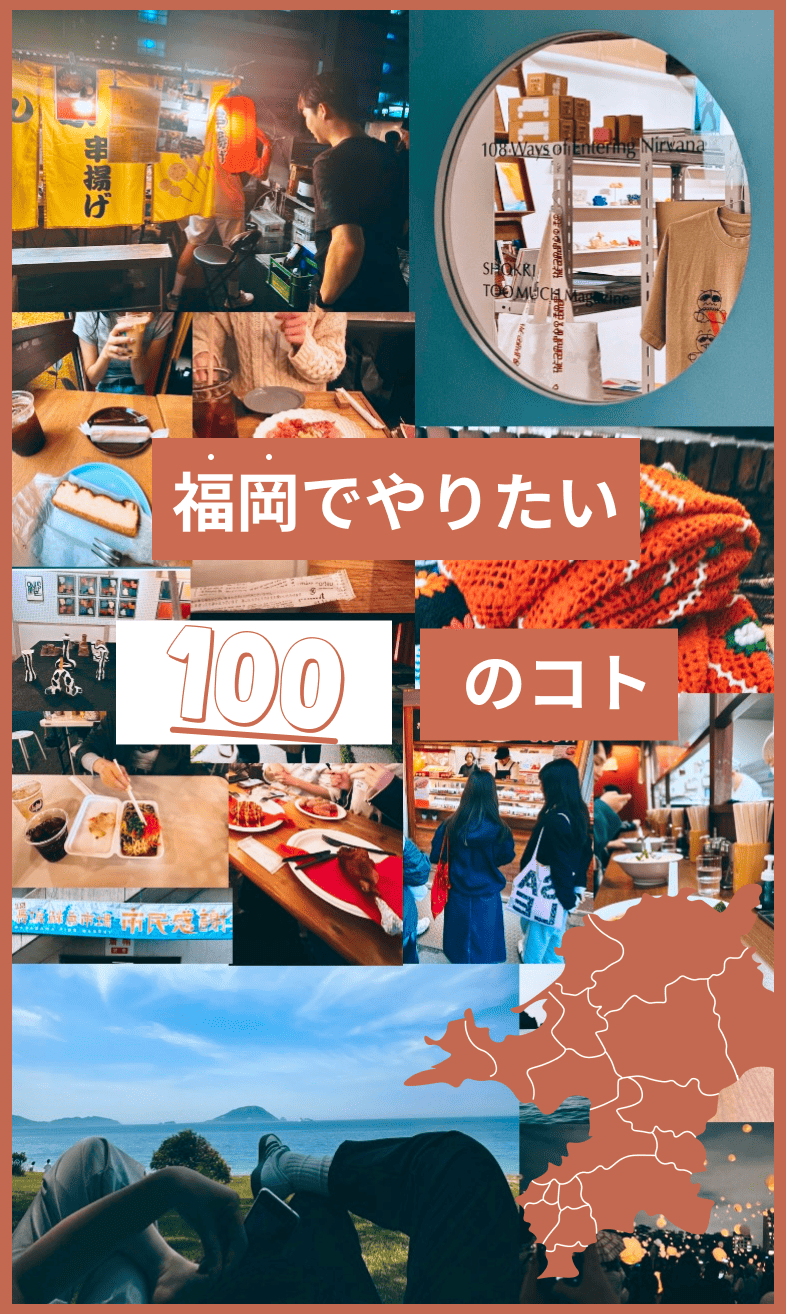
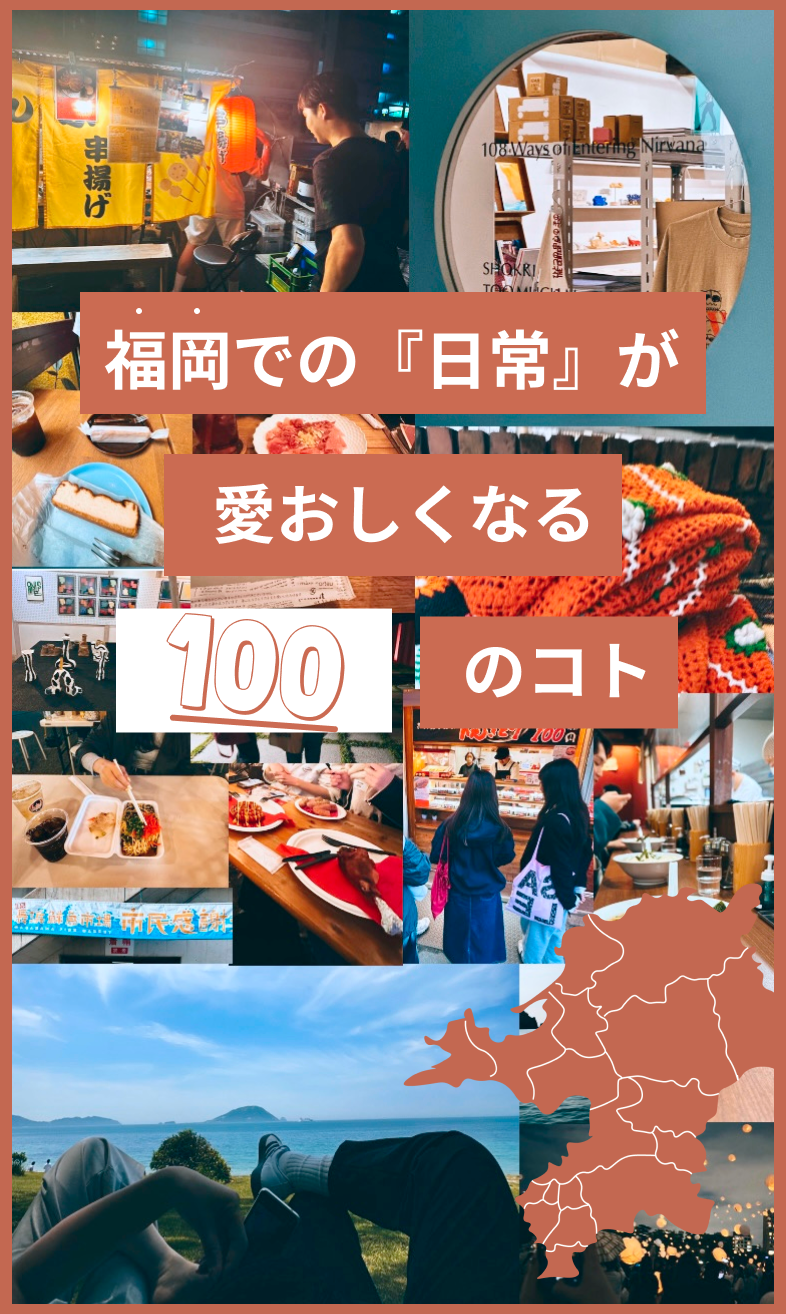
chore uiの変更

diff --git a/frontend/src/app/page.tsx b/frontend/src/app/page.tsx
@@ -40,7 +40,7 @@ export default function Home() {
           「今までの自分なら選ばなかった」そんなワクワクする瞬間をお届けます。
           今日は昨日よりも少しだけディープで、美しい福岡へ。
         </p>
-        <Link href={'/about'} className="section-link concept">コンセプトについて</Link>
+        <Link href={'/about'} className="section-link concept">この街で、やりたい100のこと。</Link>
       </div>
       <div className="section">
         <h2 className="section-title">Editor&apos;s Pick Up Plan</h2>

diff --git a/frontend/public/styles/common.css b/frontend/public/styles/common.css
@@ -76,6 +76,10 @@ li {
     max-width: 200px;
 }
 
+.section-link.concept {
+    max-width: none;
+}
+
 .official-sns {
     text-align: center;
     width: 100%;
